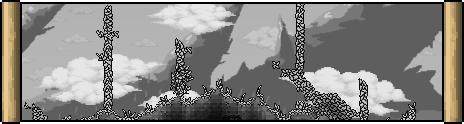
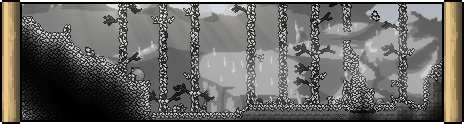
Wiki commit

diff --git a/Armor.html b/Armor.html
@@ -13,64 +13,36 @@
 			<div id="table-of-contents"></div>
 
 			<p>
-				If you are looking for the official page of vanilla armor, click <a href="https://terraria.wiki.gg/wiki/Armor"><b>here</b></a>.
+				If you are looking for the official page of vanilla armor, click <b>[link here | | https://terraria.wiki.gg/wiki/Armor]</b>.
 			</p>
 
 			<p>
 				<b>Armor</b> is a set of equipable items that reduce damage taken from [link enemies] and most other damage sources.
-				Armor pieces are equipped by placing<br> them in the armor slots of the player's <a href="https://terraria.wiki.gg/wiki/Inventory">Inventory</a>.
-				Armor can also be placed in <a href="https://terraria.wiki.gg/wiki/Inventory#Vanity_armor_(3_slots)">vanity slots</a> to change the player's appearance without affecting stats.<br>
+				Armor pieces are equipped by placing<br> them in the armor slots of the player's [link inventory | | https://terraria.wiki.gg/wiki/Inventory].
+				Armor can also be placed in [link vanity slots | | https://terraria.wiki.gg/wiki/Inventory#Vanity_armor_(3_slots)] to change the player's appearance without affecting stats.<br>
 				Armor pieces are either [link crafted | | Recipes.html], purchased from [link NPCs], or dropped from enemies.
-				Each armor set is generally based around the <a href="https://terraria.wiki.gg/wiki/Damage#Damage_types">damage types</a><br> introduced in the vanilla game as well as in Origins, however, Origins adds a couple that provide [link generic | | Generic_Damage.html] bonuses that apply to all classes.
+				Each armor set is generally based around the [link damage types | | https://terraria.wiki.gg/wiki/Damage#Damage_types]<br> introduced in the vanilla game as well as in Origins, however, Origins adds a couple that provide [link generic | | Generic_Damage.html] bonuses that apply to all classes.
 			</p>
 
 			<p>
-				Every piece of armor provides [link defense | | https://terraria.wiki.gg/wiki/Defense] that reduces damage by half its value in [link Classic Mode | | https://terraria.wiki.gg/wiki/Classic_Mode], three-quarters in <a href="https://terraria.wiki.gg/wiki/Expert_Mode">Expert</a>, and all of it rounded up in <a href="https://terraria.wiki.gg/wiki/Master_Mode">Master</a>.
+				Every piece of armor provides [link defense | | https://terraria.wiki.gg/wiki/Defense] that reduces damage by half its value in [link Classic Mode | | https://terraria.wiki.gg/wiki/Classic_Mode], three-quarters in [link Expert | | https://terraria.wiki.gg/wiki/Expert_Mode], and all of it rounded up in [link Master | | https://terraria.wiki.gg/wiki/Master_Mode].
 				In addition to<br> the defense provided by individual armor pieces, most armor types provide a <b>Set Bonus</b> when all three pieces of the same armor type are worn simultaneously.
 				More<br> advanced or unique armors can provide other specialized set bonuses.
 			</p>
 
 			<details class="section" id="Pre-Hardmode" open>
 				<summary>Pre-Hardmode<span class="divider"></span></summary>
-				[link Cryosten Armor | Images/ArmorSets/Cryosten_Armor.png]<br>
-				[link Encrusted Armor | Images/ArmorSets/Encrusted_Armor.png]<br>
-				[link Lost Armor | Images/ArmorSets/Lost_Armor.png]<br>
-				[link Scavenger Armor | Images/ArmorSets/Scavenger_Armor.png]<br>
-				[link Soulhide Armor | Images/ArmorSets/Soulhide_Armor.png]<br>
-				[link Tendon Armor | Images/ArmorSets/Tendon_Armor.png]<br>
-				[link Mythic Armor | Images/ArmorSets/Mythic_Armor.png]<br>
-				[link Riptide Armor | Images/ArmorSets/Riptide_Armor.png]<br>
-				[link Felnum Armor | Images/ArmorSets/Felnum_Armor.png]<br>
-				[link Fiberglass Armor | Images/ArmorSets/Fiberglass_Armor.png]<br>
-				[link Ancient Defiled Armor | Images/ArmorSets/Ancient_Defiled_Armor.png]<br>
-				[link Ancient Riven Armor | Images/ArmorSets/Ancient_Riven_Armor.png]<br>
-				[link Ashen Armor | Images/ArmorSets/Ashen_Armor.png]<br>
-				[link Defiled Armor | Images/ArmorSets/Defiled_Armor.png]<br>
-				[link Riven Armor | Images/ArmorSets/Riven_Armor.png]
+				[sortablelist ArmorSet]
 			</details>
 
 			<details class="section" id="Hardmode" open>
 				<summary>Hardmode<span class="divider"></span></summary>
-				[link Amber Exploder Armor | Images/ArmorSets/Amber_Armor.png]<br>
-				[link Chambersite Armor | Images/ArmorSets/Chambersite_Armor.png]<br>
-				[link Ruby Ranger Armor | Images/ArmorSets/Ruby_Ranger_Armor.png]<br>
-				[link Abysswalker's Armor | Images/ArmorSets/Abysswalker_Armor.png | Abysswalkers_Armor.html]<br>
-				[link Sapphire Mediator Armor | Images/ArmorSets/Sapphire_Armor.png]<br>
-				[link Bleeding Obsidian Armor | Images/ArmorSets/Bleeding_Obsidian_Armor.png]<br>
-				[link Edenwood Armor | Images/ArmorSets/Edenwood_Armor.png]<br>
-				[link Necromancer Armor | Images/ArmorSets/Necromancer_Armor.png]<br>
-				[link Blast Armor | Images/ArmorSets/Amber_Armor.png]<br>
-				[link Acrid Armor | Images/ArmorSets/Ranged_Acrid_Armor.png]
+				[sortablelist HardmodeArmorSet]
 			</details>
 
 			<details class="section" id="Post-Moonlord" open>
 				<summary>Post-Moonlord<span class="divider"></span></summary>
-				[link Nova Armor | Images/ArmorSets/Nova_Armor.png]<br>
-				[link Ascendant Armor | Images/ArmorSets/Ascendant_Armor.png]<br>
-				[link Locus Armor | Images/ArmorSets/Locus_Armor.png]<br>
-				[link Eyndum Armor | Images/ArmorSets/Eyndum_Armor.png]<br>
-				[link Nano Armor | Images/ArmorSets/Nano_Armor.png]<br>
-				[link Chromtain Armor | Images/ArmorSets/Chromtain_Armor.png]
+				[sortablelist PostMLArmorSet]
 			</details>
 
 			<details class="section" id="Other Armor" open>

diff --git a/Biomes.html b/Biomes.html
@@ -106,9 +106,17 @@
 			<h4>[link Fiberglass Caves | §ModImage§/UI/WorldGen/IconFiberglass.png]</h4>
 			<img src="Images/BiomeBannerFiberglass.png">
 			<p>
-				The Fiberglass Caves are a natural Cavern biome located directly under the Brine Pool in the [link Underground Jungle | | https://terraria.wiki.gg/wiki/Underground_Jungle].
+				The Fiberglass Caves is a natural Cavern biome located directly under the Brine Pool in the [link Underground Jungle | | https://terraria.wiki.gg/wiki/Underground_Jungle].
 				The Caves are full of of enchanted<br> elemental spawn that safeguard the biome from any intruders.
-				Deeper with, however, resides the colossal [link Fiberglass Weaver] spider that will also protect its<br> home.
+				Deeper within, however, resides the colossal [link Fiberglass Weaver] spider that will also protect its<br> home.
+			</p>
+
+			<h4>[link Riven Caverns | Images/themes/theme-rivencaverns.png]</h4>
+			<img src="Images/BiomeBannerRivenCaverns.png">
+			<p>
+				The Riven Caverns form in the Cavern layer upon the Wall of Flesh's defeat.
+				The Riven Caverns is no different than the Riven Hive itself, merely a sign that it has spread quite fast.
+				Don't be too hasty, however, as the layout of the caverns make the Riven's gooey amebic gel even more dangerous, and [link Mitoworms | | Mitoworm.html] multiply rampantly as well.
 			</p>
 
 			<h3>Hell biomes</h3>

diff --git a/Switchblade.html b/Switchblade.html
@@ -14,8 +14,8 @@
 
 			<p>
 				The <b>Switchblade</b> is a [link pre-Hardmode | | https://terraria.wiki.gg/wiki/Pre-Hardmode] [link melee weapon | | Melee_Weapons.html] that is crafted using [link Sanguinite Bars | | Sanguinite_Bar.html] and [link NE-8 | | NE_8.html].
-				The swords function can be switched by pressing the <b>Open/Activate</b> button, changing between a [link shortsword | | Shortswords.html] and [link broadsword | | Broadsword.html] function.
-				It deals more damage in shortsword form, but has more range in its broadsword form.
+				The sword's function can be switched by pressing the <b>Interact</b> button, changing between a [link shortsword | | Shortswords.html] and [link broadsword | | Broadsword.html] function.
+				It deals more damage per second in shortsword form, but has more range in its broadsword form.
 			</p>
 
 			<summary>Crafting<span class="divider"></span></summary>
@@ -42,7 +42,7 @@
 			<details open>
 				<summary>Notes<span class="divider"></span></summary>
 				<p>
-					- The Switchblade's [link attack speed | | https://terraria.wiki.gg/wiki/Attack_speed] does not change depending on the mode.
+					- The [link attack speed | | https://terraria.wiki.gg/wiki/Attack_speed] of the Switchblade's shortsword form can be greatly increased following its retraction from broadsword form.
 				</p>
 			</details>
 		</article>
